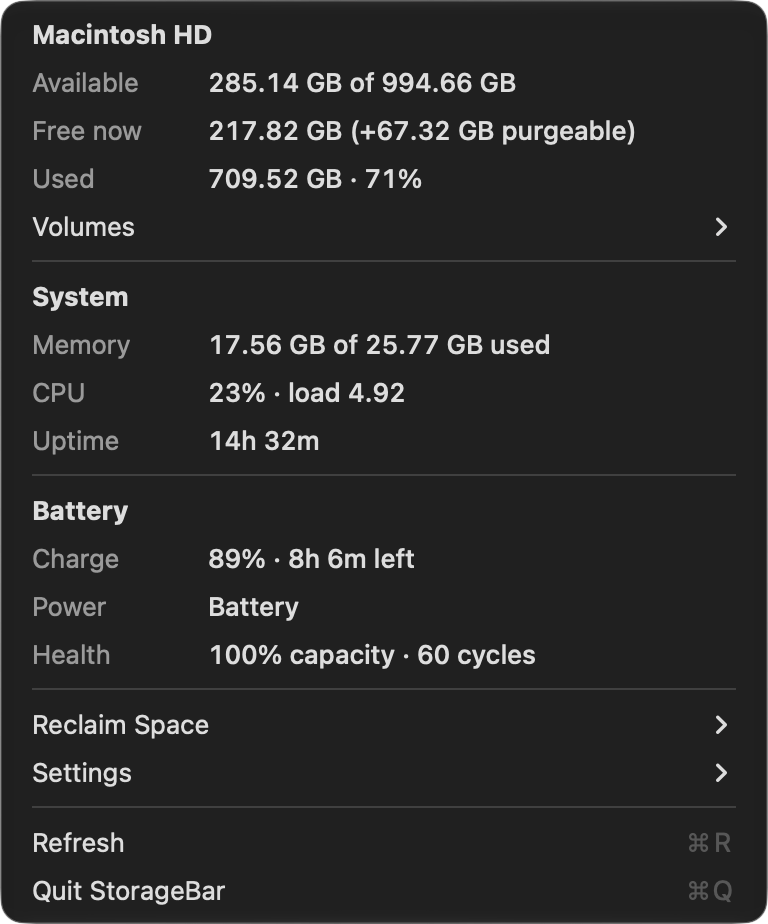
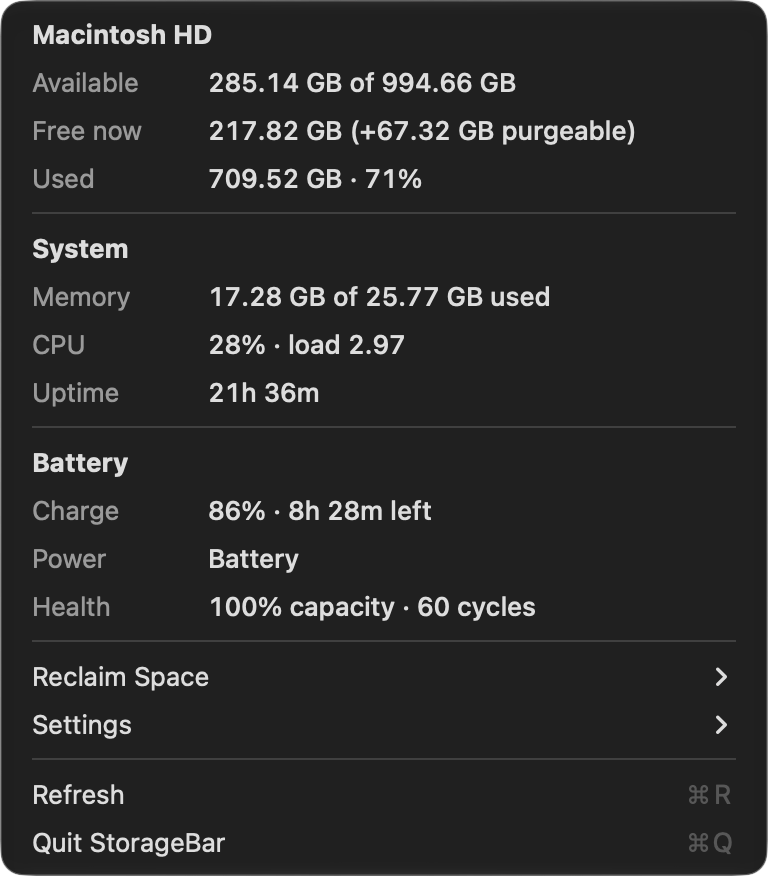
Fix stat accuracy: trash access, uptime, memory formula, battery health source
- Unreadable folders (TCC-protected ~/.Trash) now show "no access" instead
  of a misleading zero, with a Full Disk Access hint in the tooltip
- Uptime uses kern.boottime (wall clock) instead of systemUptime, which
  stops counting during sleep
- Memory uses Activity Monitor's formula: internal - purgeable + wired
  + compressed
- Battery health prefers NominalChargeCapacity to match System Settings

diff --git a/Sources/StorageBar/SystemStats.swift b/Sources/StorageBar/SystemStats.swift
@@ -83,12 +83,19 @@ enum SystemStats {
     }
 
     /// Total allocated size of everything under `url`. Walks the tree, so run it
-    /// off the main thread; unreadable entries are skipped.
-    static func directorySize(_ url: URL) -> Int64 {
+    /// off the main thread. Returns nil when the directory itself can't be read
+    /// (e.g. ~/.Trash without Full Disk Access) — that's "unknown", not zero.
+    /// Unreadable entries deeper in the tree are skipped.
+    static func directorySize(_ url: URL) -> Int64? {
+        do {
+            _ = try FileManager.default.contentsOfDirectory(atPath: url.path)
+        } catch {
+            return nil
+        }
         let keys: Set<URLResourceKey> = [.totalFileAllocatedSizeKey, .isRegularFileKey]
         guard let enumerator = FileManager.default.enumerator(
             at: url, includingPropertiesForKeys: Array(keys), options: [], errorHandler: { _, _ in true }
-        ) else { return 0 }
+        ) else { return nil }
         var total: Int64 = 0
         for case let fileURL as URL in enumerator {
             guard let values = try? fileURL.resourceValues(forKeys: keys),
@@ -98,7 +105,8 @@ enum SystemStats {
         return total
     }
 
-    /// Used memory the way Activity Monitor counts it: active + wired + compressed.
+    /// Used memory with Activity Monitor's formula:
+    /// app memory (internal - purgeable) + wired + compressed.
     static func memory() -> (used: UInt64, total: UInt64)? {
         var stats = vm_statistics64()
         var count = mach_msg_type_number_t(MemoryLayout<vm_statistics64>.stride / MemoryLayout<integer_t>.stride)
@@ -110,7 +118,8 @@ enum SystemStats {
         guard result == KERN_SUCCESS else { return nil }
         var pageSize: vm_size_t = 0
         host_page_size(mach_host_self(), &pageSize)
-        let pages = UInt64(stats.active_count) + UInt64(stats.wire_count) + UInt64(stats.compressor_page_count)
+        let appPages = UInt64(stats.internal_page_count) - min(UInt64(stats.internal_page_count), UInt64(stats.purgeable_count))
+        let pages = appPages + UInt64(stats.wire_count) + UInt64(stats.compressor_page_count)
         return (pages * UInt64(pageSize), ProcessInfo.processInfo.physicalMemory)
     }
 
@@ -146,7 +155,17 @@ enum SystemStats {
     }
 
     static func uptime() -> String {
-        let seconds = Int(ProcessInfo.processInfo.systemUptime)
+        // ProcessInfo.systemUptime excludes time asleep; kern.boottime gives
+        // wall-clock time since boot, matching the `uptime` command.
+        var boottime = timeval()
+        var size = MemoryLayout<timeval>.stride
+        var mib: [Int32] = [CTL_KERN, KERN_BOOTTIME]
+        let seconds: Int
+        if sysctl(&mib, 2, &boottime, &size, nil, 0) == 0, boottime.tv_sec > 0 {
+            seconds = Int(Date().timeIntervalSince1970) - Int(boottime.tv_sec)
+        } else {
+            seconds = Int(ProcessInfo.processInfo.systemUptime)
+        }
         let days = seconds / 86400
         let hours = (seconds % 86400) / 3600
         let minutes = (seconds % 3600) / 60
@@ -194,8 +213,10 @@ enum SystemStats {
         }
         let cycles = intProp("CycleCount")
         var health: Int?
+        // System Settings derives "Maximum Capacity" from NominalChargeCapacity,
+        // so prefer it to match what the user sees there.
         if let design = intProp("DesignCapacity"), design > 0,
-           let maxCapacity = intProp("AppleRawMaxCapacity") ?? intProp("NominalChargeCapacity") {
+           let maxCapacity = intProp("NominalChargeCapacity") ?? intProp("AppleRawMaxCapacity") {
             // A fresh battery's raw capacity can exceed its design capacity; cap at 100.
             health = min(100, Int((Double(maxCapacity) / Double(design) * 100).rounded()))
         }

diff --git a/Sources/StorageBar/AppDelegate.swift b/Sources/StorageBar/AppDelegate.swift
@@ -435,7 +435,14 @@ final class AppDelegate: NSObject, NSApplicationDelegate, NSMenuDelegate {
             for (target, item) in rows {
                 let size = SystemStats.directorySize(target.url)
                 DispatchQueue.main.async {
-                    item.attributedTitle = self?.infoTitle(target.label, SystemStats.formatBytes(size))
+                    if let size {
+                        item.attributedTitle = self?.infoTitle(target.label, SystemStats.formatBytes(size))
+                        item.toolTip = "Show in Finder"
+                    } else {
+                        item.attributedTitle = self?.infoTitle(target.label, "no access")
+                        item.toolTip = "StorageBar can't read this folder. To see its size, grant StorageBar "
+                            + "Full Disk Access in System Settings → Privacy & Security. Click to open it in Finder."
+                    }
                 }
             }
             DispatchQueue.main.async {

diff --git a/README.md b/README.md
@@ -23,7 +23,9 @@ just a Swift package you can build and run in seconds.
 - **Reclaim Space submenu** — sizes of the usual space hogs (Trash, Downloads,
   Xcode DerivedData, Caches), each one click from Finder, plus a shortcut to
   macOS's Storage Settings pane. Sizes are computed in the background and
-  cached for five minutes
+  cached for five minutes. macOS protects `~/.Trash`, so the Trash row shows
+  "no access" unless you grant StorageBar Full Disk Access in
+  System Settings → Privacy & Security (everything else works without it)
 - **Memory usage** counted the way Activity Monitor does (active + wired + compressed)
 - **CPU usage** and 1-minute load average, plus **uptime**
 - **Battery section** — charge level, time remaining (or time until full when